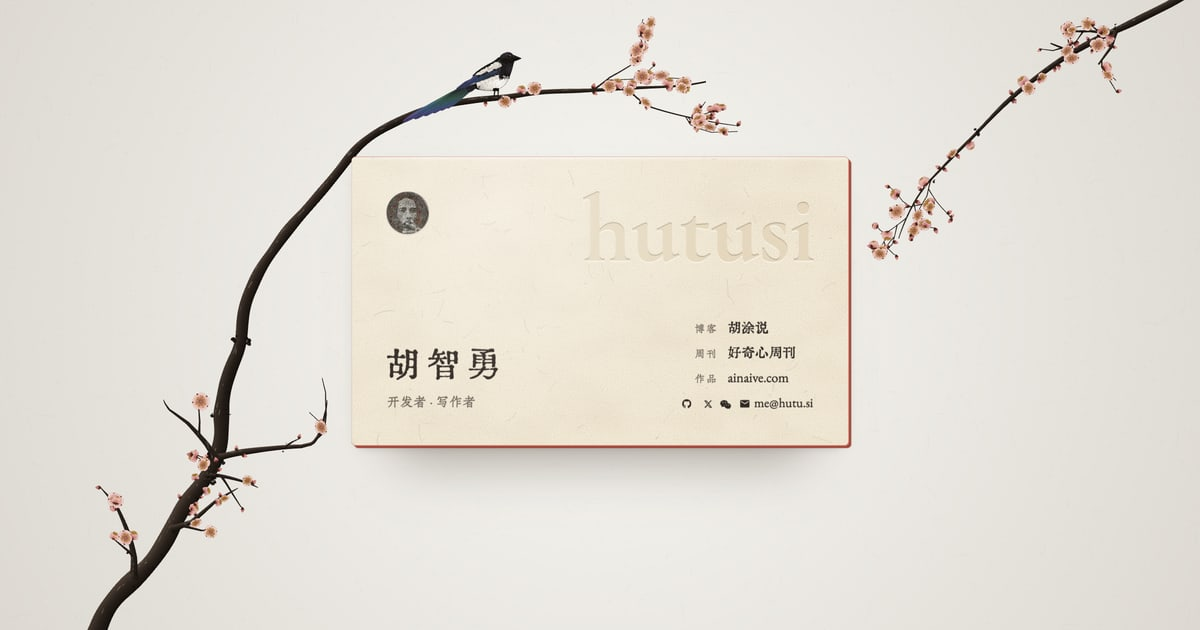
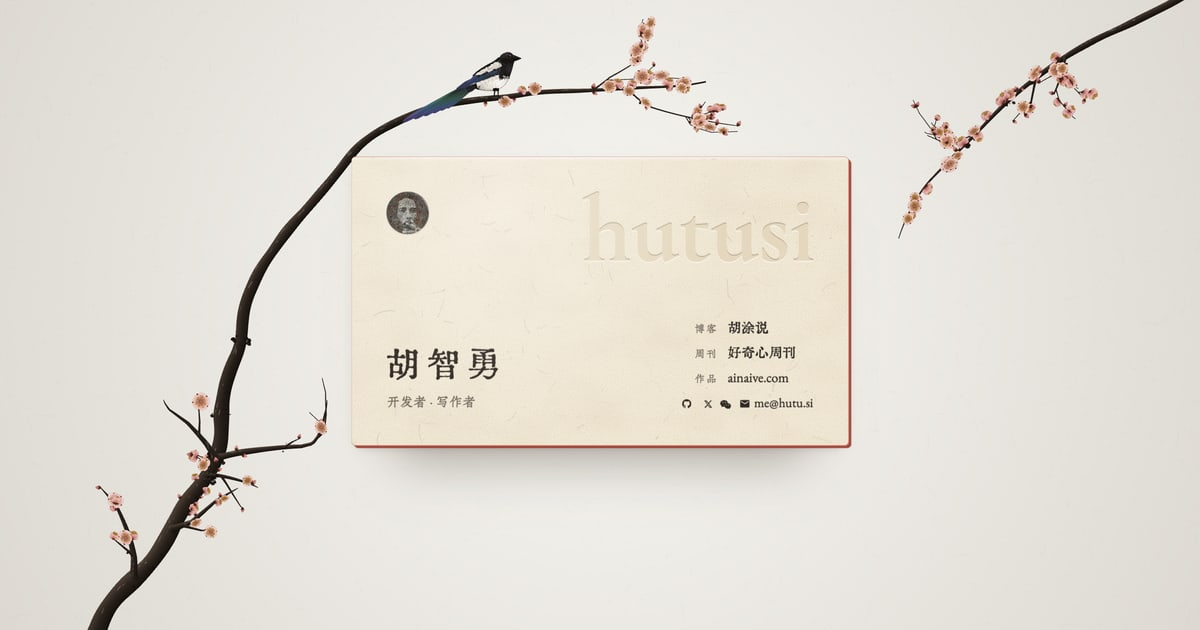
fix(scene): keep twigs and blossoms on the visible limb on big screens
On screens larger than the stage, each limb's start is pushed back
until it is off-screen, so the branch always enters from the edge. But
twigs, blossom clusters and moss are placed at fractions of the limb's
length, and that off-screen lead-in counted towards it, so on big
screens they slid back along the limb. On a 12.9-inch iPad held upright
(1024×1366), 9% of branches grew bare, with as few as one stroke: one
range of twig anchors fell on the lead-in above the screen, where twigs
can't grow, and the other on the magpie's clear perch zone. On an
ultrawide screen, moss could land on the stretch of limb behind the
card.

The lead-in's length is now recorded and the fractions are measured
from the design's own start. When there is no lead-in (the stage, every
phone, a regular iPad, landscape phones) the arithmetic and the random
sequence are unchanged, so those branches are byte-identical for 300
seeds. The social preview's view (1200×630) has a lead-in on the second
limb, so og.jpg is regenerated; its blossoms now spread along the
visible limb as in the design. Found by the new generator tests.

Changed region(s): [[0.7092, 0.181, 0.8325, 0.4222], [0.8325, 0.0302, 0.925, 0.181], [0.4317, 0.1206, 0.4625, 0.1508]]

diff --git a/src/scene/branch.js b/src/scene/branch.js
@@ -10,17 +10,19 @@ const BLOSSOM_COLOURS = [[188, 92, 88], [198, 106, 98], [176, 84, 82], [204, 118
 const wrap = (a) => Math.atan2(Math.sin(a), Math.cos(a));
 
 // Moves a limb's start back along its heading until it is off-screen, so the branch always
-// enters from the edge of the viewport ({ x0, y0, x1, y1 } in stage coordinates).
+// enters from the edge of the viewport ({ x0, y0, x1, y1 } in stage coordinates). `lead` is
+// how many path points that adds before the design's own start.
 function offscreen(limb, view) {
   let { x, y } = limb;
   const dx = -Math.cos(limb.a) * 10;
   const dy = -Math.sin(limb.a) * 10;
   const m = 30;
-  for (let i = 0; i < 400 && x > view.x0 - m && x < view.x1 + m && y > view.y0 - m && y < view.y1 + m; i++) {
+  let i = 0;
+  for (; i < 400 && x > view.x0 - m && x < view.x1 + m && y > view.y0 - m && y < view.y1 + m; i++) {
     x += dx;
     y += dy;
   }
-  return { x, y };
+  return { x, y, lead: Math.round((i * 10) / STEP) };
 }
 
 export function growBranch(comp, rand, view) {
@@ -213,20 +215,26 @@ export function growBranch(comp, rand, view) {
     flora.push({ kind: 'moss', x: p.x, y: p.y, dots, t: timeAt(st, i) + R(0.4, 1.2), dur: 0.8 });
   };
 
-  const grow = (st) => {
+  // A limb's flowers and twigs are placed at fractions of its length, measured from the
+  // design's start: an off-screen lead-in (`lead` points, on big screens) doesn't count, or the
+  // fractions would shift onto it and leave the visible limb bare.
+  const grow = (st, lead = 0) => {
     const d = st.depth;
     const n = st.pts.length;
+    const n0 = Math.min(lead, n - 3);
+    const span = n - n0;
     const main = st === strokes[0];
     if (d === 0) {
-      let i = Math.floor(n * 0.12);
+      let i = n0 + Math.floor(span * 0.12);
       while (i < n - 2) {
-        const inWindow = main ? B.mainWindow(st.pts[i], i / (n - 1)) : i / (n - 1) > 0.25;
+        const f = (i - n0) / (span - 1);
+        const inWindow = main ? B.mainWindow(st.pts[i], f) : f > 0.25;
         if (inWindow && rand() < B.mainChance) {
           cluster(st, i);
           i += Math.floor(R(...B.mainStep));
         } else i += Math.floor(R(5, 10));
       }
-      for (let k = 0, m = 2 + Math.floor(rand() * 3); k < m; k++) mossAt(st, Math.floor(R(0.06, 0.7) * n), true);
+      for (let k = 0, m = 2 + Math.floor(rand() * 3); k < m; k++) mossAt(st, n0 + Math.floor(R(0.06, 0.7) * span), true);
     } else {
       for (const k of st.pts.nodes || []) if (rand() < B.nodeBloom[st.focus ? 0 : 1]) cluster(st, k);
       if (d === 1 && rand() < 0.3) mossAt(st, Math.floor(n * R(0.1, 0.4)), false);
@@ -234,12 +242,12 @@ export function growBranch(comp, rand, view) {
     if (d < 3) {
       const mul = d === 0 ? (main ? 1.1 : 1.4) : d === 1 ? (st.focus ? 1.5 : 1) : st.focus ? 1 : 0.6;
       const min = d === 0 ? B.minLimbKids : d === 1 ? (st.focus ? 2 : 1) : 0;
-      const count = Math.max(min, Math.round(((n * STEP) / B.gaps[d]) * R(0.8, 1.2) * mul));
+      const count = Math.max(min, Math.round(((span * STEP) / B.gaps[d]) * R(0.8, 1.2) * mul));
       const anchors = [R(0.15, 0.5), R(0.5, 0.92)];
       let side = rand.sign();
       for (let c = 0, made = 0; made < count && c < count * 6; c++) {
         const fi = Math.min(0.95, Math.max(0.1, anchors[c % 2] + R(-0.1, 0.1)));
-        const i = Math.max(1, Math.floor(fi * (n - 1)));
+        const i = n0 + Math.max(1, Math.floor(fi * (span - 1)));
         const p = st.pts[i];
         if (noBloom(p.x, p.y)) continue;
         side = rand() < 0.72 ? -side : side;
@@ -289,12 +297,13 @@ export function growBranch(comp, rand, view) {
 
   const limbs = B.limbs.map((limb) => {
     const way = limb.way.map(([x, y, j, k]) => ({ x: x + R(-j, j), y: y + R(-j, j), k }));
-    const P = limbPath({ ...offscreen(limb, view), a: limb.a, way, noise: 0.004 });
+    const { lead, ...start } = offscreen(limb, view);
+    const P = limbPath({ ...start, a: limb.a, way, noise: 0.004 });
     if (limb.wobble) wobble(P, limb.wobble);
     const knot = limb.knotAbove ? P.findIndex((p) => p.y < limb.knotAbove) : 0;
     const st = stroke(P, { ...limb, depth: 0, knot });
     if (knot > 0) mossAt(st, knot, true);
-    grow(st);
+    grow(st, lead);
     return st;
   });
 
